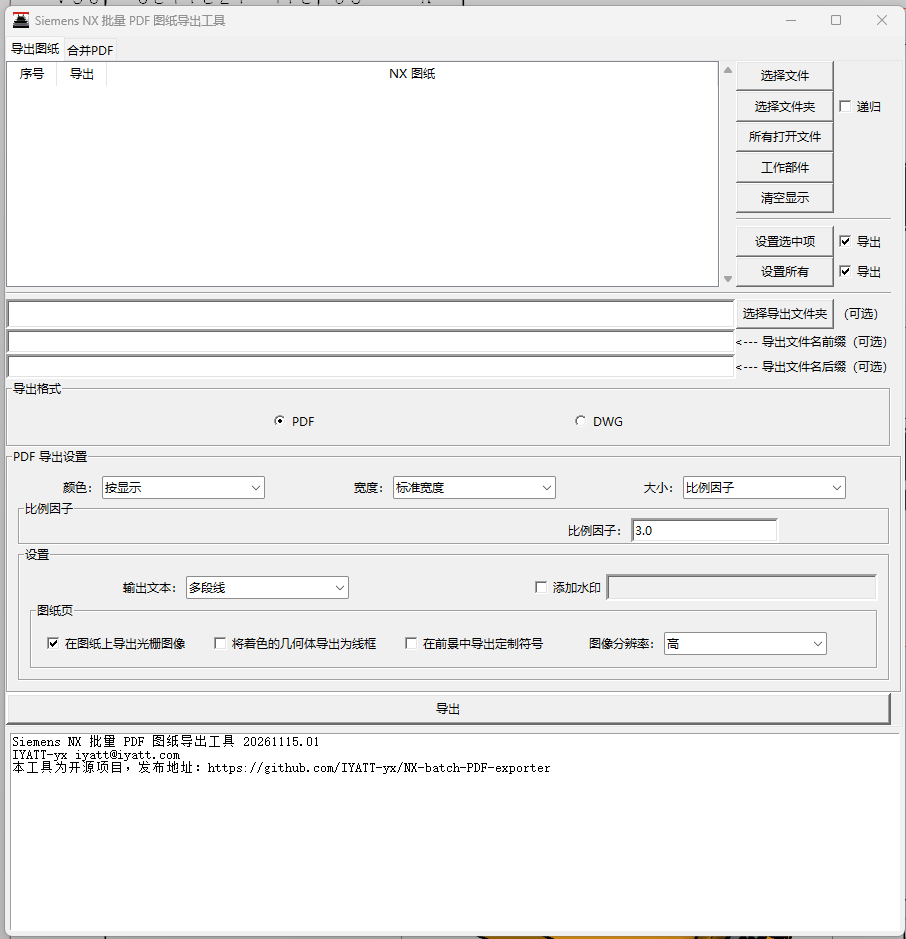
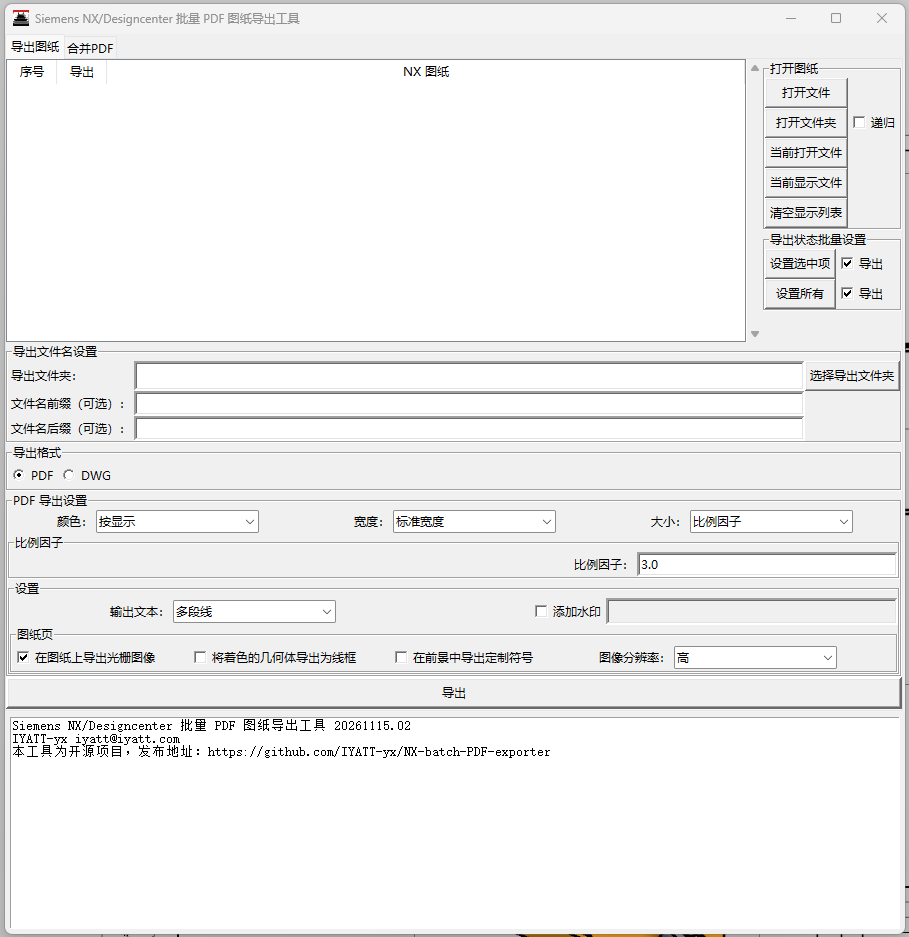
重建PDF导出页面

Changed region(s): [[0.0, 0.0, 1.0, 1.0], [0.7108, 0.9904, 0.8653, 1.0], [0.5254, 0.9904, 0.649, 1.0]]

diff --git a/application.py b/application.py
@@ -59,95 +59,110 @@ class Application(tk.Frame):
         self.msgText.pack(side=tk.BOTTOM, fill=tk.X, padx=5, pady=5)
         self._config_text_tags(self.msgText)
 
-    def createExportPdfTab(self, parent: tk.Frame):
-        """
-        创建导出 PDF 页面
+    def createPrtListPanel(self, parent: tk.Frame) -> tk.Frame:
+        '''创建图纸展示区'''
+        prtListFrame = tk.Frame(parent)
 
-        Args:
-            parent (tk.Frame): 父组件
-        """
-        parent.rowconfigure([0,1,2,3,4,5,6], weight=1)
-        parent.columnconfigure(0, weight=1)
+        totalRows = 8
+        self.prtListShow = ListShow(prtListFrame)
+        self.prtListShow.grid(row=0, column=0, rowspan=totalRows, sticky=tk.NSEW)
+        prtListFrame.rowconfigure(totalRows-1, weight=1)
+        prtListFrame.columnconfigure(0, weight=1)
 
-        self.prtListShow = ListShow(parent)
-        self.prtListShow.grid(row=0, column=0, rowspan=8, sticky=tk.NSEW)
+        # 操作区
+        operationFrame = tk.LabelFrame(prtListFrame, text=_('打开图纸'))
+        operationFrame.grid(row=0, column=1, rowspan=5, columnspan=2, sticky=tk.NSEW)
 
-        tk.Button(parent, text=_('选择文件'), command=self.onGetSelectedPrts).grid(row=0, column=1, sticky=tk.NSEW)
-        tk.Button(parent, text=_('选择文件夹'), command=self.onGetPrtsFromSelectedFolder).grid(row=1, column=1, sticky=tk.NSEW)
-        tk.Button(parent, text=_('所有打开文件'), command=self.onGetOpenedPrts).grid(row=2, column=1, sticky=tk.NSEW)
-        tk.Button(parent, text=_('工作部件'), command=self.onWorkPrt).grid(row=3, column=1, sticky=tk.NSEW)
-        tk.Button(parent, text=_('清空显示'), command=self.prtListShow.clear).grid(row=4, column=1, sticky=tk.NSEW)
-        ttk.Separator(parent, orient=tk.HORIZONTAL).grid(row=5, column=1, columnspan=2, sticky=tk.EW, pady=5)
+        tk.Button(operationFrame, text=_('打开文件'), command=self.onGetSelectedPrts).grid(row=0, column=0, sticky=tk.NSEW)
+        tk.Button(operationFrame, text=_('打开文件夹'), command=self.onGetPrtsFromSelectedFolder).grid(row=1, column=0, sticky=tk.NSEW)
+        tk.Button(operationFrame, text=_('当前打开文件'), command=self.onGetOpenedPrts).grid(row=2, column=0, sticky=tk.NSEW)
+        tk.Button(operationFrame, text=_('当前显示文件'), command=self.onWorkPrt).grid(row=3, column=0, sticky=tk.NSEW)
+        tk.Button(operationFrame, text=_('清空显示列表'), command=self.prtListShow.clear).grid(row=4, column=0, sticky=tk.NSEW)
 
-        tk.Button(parent, text=_('设置选中项'), command=self.onSetSelectedPrtStatus).grid(row=6, column=1, sticky=tk.NSEW)
-        tk.Button(parent, text=_('设置所有'), command=self.onSetAllPrtStatus).grid(row=7, column=1, sticky=tk.NSEW)
-        
         self.recursiveValue = tk.BooleanVar(parent, value=False)
-        tk.Checkbutton(parent, text=_('递归'), variable=self.recursiveValue).grid(row=1, column=2, sticky=tk.W)
+        tk.Checkbutton(operationFrame, text=_('递归'), variable=self.recursiveValue).grid(row=1, column=2, sticky=tk.W)
+
+        # 导出状态批量设置
+        statusFrame = tk.LabelFrame(prtListFrame, text=_('导出状态批量设置'))
+        statusFrame.grid(row=5, column=1, rowspan=2, columnspan=2, sticky=tk.NSEW)
+
+        tk.Button(statusFrame, text=_('设置选中项'), command=self.onSetSelectedPrtStatus).grid(row=0, column=0, sticky=tk.NSEW)
+        tk.Button(statusFrame, text=_('设置所有'), command=self.onSetAllPrtStatus).grid(row=1, column=0, sticky=tk.NSEW)
+
         self.selectedPrtStatusValue = tk.BooleanVar(parent, value=True)
-        tk.Checkbutton(parent, text=_('导出'), variable=self.selectedPrtStatusValue).grid(row=6, column=2, sticky=tk.W)
+        tk.Checkbutton(statusFrame, text=_('导出'), variable=self.selectedPrtStatusValue).grid(row=0, column=2, sticky=tk.W)
         self.allPrtStatusValue = tk.BooleanVar(parent, value=True)
-        tk.Checkbutton(parent, text=_('导出'), variable=self.allPrtStatusValue).grid(row=7, column=2, sticky=tk.W)
+        tk.Checkbutton(statusFrame, text=_('导出'), variable=self.allPrtStatusValue).grid(row=1, column=2, sticky=tk.W)
 
-        ttk.Separator(parent, orient=tk.HORIZONTAL).grid(row=8, column=0, columnspan=3, sticky=tk.EW, pady=5)
+        return prtListFrame
 
+    def createExportFilenameSettingPanel(self, parent: tk.Frame) -> tk.LabelFrame:
+        '''创建导出文件名设置区'''
+        exportFilenameSettingFrame = tk.LabelFrame(parent, text=_('导出文件名设置'))
+        exportFilenameSettingFrame.columnconfigure(1, weight=1)
+
+        tk.Label(exportFilenameSettingFrame, text=_('导出文件夹：')).grid(row=0, column=0, sticky=tk.W)
         self.exportFolderValue = tk.StringVar(parent, value='')
-        tk.Entry(parent, textvariable=self.exportFolderValue, bd=3).grid(row=9, column=0, sticky=tk.NSEW)
-        tk.Button(parent, text=_('选择导出文件夹'), command=self.onSelectExportFolder).grid(row=9, column=1, sticky=tk.NSEW)
-        tk.Label(parent, text=_('（可选）')).grid(row=9, column=2, sticky=tk.W)
+        tk.Entry(exportFilenameSettingFrame, textvariable=self.exportFolderValue, bd=3).grid(row=0, column=1, sticky=tk.NSEW)
+        tk.Button(exportFilenameSettingFrame, text=_('选择导出文件夹'), command=self.onSelectExportFolder).grid(row=0, column=2, sticky=tk.NSEW)
 
+        tk.Label(exportFilenameSettingFrame, text=_('文件名前缀（可选）：')).grid(row=1, column=0, sticky=tk.W)
         self.prefixNameValue = tk.StringVar(parent, value='')
-        tk.Entry(parent, textvariable=self.prefixNameValue,  bd=3).grid(row=10, column=0, sticky=tk.NSEW)
-        tk.Label(parent, text=_('<--- 导出文件名前缀（可选）')).grid(row=10, column=1, columnspan=2, sticky=tk.W)
+        tk.Entry(exportFilenameSettingFrame, textvariable=self.prefixNameValue,  bd=3).grid(row=1, column=1, sticky=tk.NSEW)
 
+        tk.Label(exportFilenameSettingFrame, text=_('文件名后缀（可选）：')).grid(row=2, column=0, sticky=tk.W)
         self.suffixNameValue = tk.StringVar(parent, value='')
-        tk.Entry(parent, textvariable=self.suffixNameValue, bd=3).grid(row=11, column=0, sticky=tk.NSEW)
-        tk.Label(parent, text=_('<--- 导出文件名后缀（可选）')).grid(row=11, column=1, columnspan=2, sticky=tk.W)
+        tk.Entry(exportFilenameSettingFrame, textvariable=self.suffixNameValue, bd=3).grid(row=2, column=1, sticky=tk.NSEW)
 
-        exportFormatBox = tk.LabelFrame(parent, text=_('导出格式'), padx=10, pady=10)
-        exportFormatBox.grid(row=12, column=0, columnspan=3, sticky=tk.NSEW)
-        for c in range(3):
-            exportFormatBox.columnconfigure(c, weight=1)
+        return exportFilenameSettingFrame
+
+    def createExportFormatPanel(self, parent: tk.Frame) -> tk.LabelFrame:
+        '''创建导出格式选择区'''
+        exportFormatFrame = tk.LabelFrame(parent, text=_('导出格式'))
+
         self.drawingClassValue = tk.IntVar(parent, self.DrawingClass.PDF.value)
-        tk.Radiobutton(exportFormatBox, text='PDF', variable=self.drawingClassValue, value=self.DrawingClass.PDF.value, command=self.onChangeDrawingClass).grid(row=0, column=1, sticky=tk.W)
-        tk.Radiobutton(exportFormatBox, text='DWG', variable=self.drawingClassValue, value=self.DrawingClass.DWG.value, command=self.onChangeDrawingClass).grid(row=0, column=2, sticky=tk.W)
+        tk.Radiobutton(exportFormatFrame, text='PDF', variable=self.drawingClassValue, value=self.DrawingClass.PDF.value, command=self.onChangeDrawingClass).grid(row=0, column=1, sticky=tk.W)
+        tk.Radiobutton(exportFormatFrame, text='DWG', variable=self.drawingClassValue, value=self.DrawingClass.DWG.value, command=self.onChangeDrawingClass).grid(row=0, column=2, sticky=tk.W)
 
-        # PDF 导出设置
-        self.pdfSettingBox = tk.LabelFrame(parent, text=_('PDF 导出设置'), padx=10, pady=10)
-        self.pdfSettingBox.grid(row=13, column=0, columnspan=6, sticky=tk.NSEW)
+        return exportFormatFrame
+
+    def createExportPdfSettingPanel(self, parent: tk.Frame) -> tk.LabelFrame:
+        '''创建导出 PDF 设置区'''
+        pdfSettingFrame = tk.LabelFrame(parent, text=_('PDF 导出设置'))
         for c in range(6):
-            self.pdfSettingBox.columnconfigure(c, weight=1)
+            pdfSettingFrame.columnconfigure(c, weight=1)
 
         # 打印属性 - 颜色
-        tk.Label(self.pdfSettingBox, text=_('颜色：')).grid(row=0, column=0, sticky=tk.E)
-        self.colorCombox = ttk.Combobox(self.pdfSettingBox, values=list(NxModules.Color.keys()), state='readonly')
+        tk.Label(pdfSettingFrame, text=_('颜色：')).grid(row=0, column=0, sticky=tk.E)
+        self.colorCombox = ttk.Combobox(pdfSettingFrame, values=list(NxModules.Color.keys()), state='readonly')
         self.colorCombox.grid(row=0, column=1, sticky=tk.W)
         self.colorCombox.set(list(NxModules.Color.keys())[0]) # 按显示
 
         # 打印属性 - 宽度
-        tk.Label(self.pdfSettingBox, text=_('宽度：')).grid(row=0, column=2, sticky=tk.E)
-        self.widthCombox = ttk.Combobox(self.pdfSettingBox, values=list(NxModules.Width.keys()), state='readonly')
+        tk.Label(pdfSettingFrame, text=_('宽度：')).grid(row=0, column=2, sticky=tk.E)
+        self.widthCombox = ttk.Combobox(pdfSettingFrame, values=list(NxModules.Width.keys()), state='readonly')
         self.widthCombox.grid(row=0, column=3, sticky=tk.W)
         self.widthCombox.set(list(NxModules.Width.keys())[0]) # 标准宽度
 
         # 打印属性 - 大小
-        tk.Label(self.pdfSettingBox, text=_('大小：')).grid(row=0, column=4, sticky=tk.E)
-        self.sizeOptionCombox = ttk.Combobox(self.pdfSettingBox, values=list(NxModules.SizeOption.keys()), state='readonly')
+        tk.Label(pdfSettingFrame, text=_('大小：')).grid(row=0, column=4, sticky=tk.E)
+        self.sizeOptionCombox = ttk.Combobox(pdfSettingFrame, values=list(NxModules.SizeOption.keys()), state='readonly')
         self.sizeOptionCombox.grid(row=0, column=5, sticky=tk.W)
-        self.sizeOptionCombox.bind("<<ComboboxSelected>>", self.onChangeSizeOption)
         self.sizeOptionCombox.set(list(NxModules.SizeOption.keys())[1]) # 比例因子
+        self.sizeOptionCombox.bind("<<ComboboxSelected>>", self.onChangeSizeOption)
 
         # 打印属性 - 比例因子
-        self.scaleFactorFrame = tk.LabelFrame(self.pdfSettingBox, text=_('比例因子'))
+        self.scaleFactorFrame = tk.LabelFrame(pdfSettingFrame, text=_('比例因子'))
         self.scaleFactorFrame.grid(row=1, column=0, columnspan=6, sticky=tk.NSEW)
         for c in range(6):
             self.scaleFactorFrame.columnconfigure(c, weight=1)
+
         tk.Label(self.scaleFactorFrame, text=_('比例因子：')).grid(row=0, column=4, sticky=tk.E)
         self.scaleFactorValue = tk.DoubleVar(parent, value='3.0')
-        tk.Entry(self.scaleFactorFrame, textvariable=self.scaleFactorValue, bd=3).grid(row=0, column=5, sticky=tk.W)
+        tk.Entry(self.scaleFactorFrame, textvariable=self.scaleFactorValue, bd=3).grid(row=0, column=5, sticky=tk.NSEW)
 
         # 打印属性 - 尺寸
-        self.dimensionFrame = tk.LabelFrame(self.pdfSettingBox, text=_('尺寸'))
+        self.dimensionFrame = tk.LabelFrame(pdfSettingFrame, text=_('尺寸'))
         self.dimensionFrame.grid(row=2, column=0, columnspan=6, sticky=tk.NSEW)
         for c in range(6):
             self.dimensionFrame.columnconfigure(c, weight=1)
@@ -167,47 +182,67 @@ class Application(tk.Frame):
         tk.Entry(self.dimensionFrame, textvariable=self.dimensionYValue, bd=3).grid(row=0, column=5, sticky=tk.W)
 
         # 设置
-        self.settingBox = tk.LabelFrame(self.pdfSettingBox, text=_('设置'), padx=10, pady=10)
-        self.settingBox.grid(row=3, column=0, columnspan=6, sticky=tk.NSEW)
+        self.settingFrame = tk.LabelFrame(pdfSettingFrame, text=_('设置'))
+        self.settingFrame.grid(row=3, column=0, columnspan=6, sticky=tk.NSEW)
         for c in range(6):
-            self.settingBox.columnconfigure(c, weight=1)
+            self.settingFrame.columnconfigure(c, weight=1)
 
-        tk.Label(self.settingBox, text=_('输出文本：')).grid(row=0, column=0, sticky=tk.E)
-        self.outputTextOptionCombox = ttk.Combobox(self.settingBox, values=list(NxModules.OutputTextOption.keys()), state='readonly')
+        tk.Label(self.settingFrame, text=_('输出文本：')).grid(row=0, column=0, sticky=tk.E)
+        self.outputTextOptionCombox = ttk.Combobox(self.settingFrame, values=list(NxModules.OutputTextOption.keys()), state='readonly')
         self.outputTextOptionCombox.grid(row=0, column=1, sticky=tk.W)
         self.outputTextOptionCombox.set(list(NxModules.OutputTextOption.keys())[1]) # 多段线
 
         self.addWatermarkBoolValue = tk.BooleanVar(parent, value=False)
-        tk.Checkbutton(self.settingBox, text=_('添加水印'), variable=self.addWatermarkBoolValue, command=self.onChangeAddWatermark).grid(row=0, column=2, sticky=tk.E)
+        tk.Checkbutton(self.settingFrame, text=_('添加水印'), variable=self.addWatermarkBoolValue, command=self.onChangeAddWatermark).grid(row=0, column=2, sticky=tk.E)
         self.watermarkTextValue = tk.StringVar(parent, value='')
-        self.watermarkEntry = tk.Entry(self.settingBox, textvariable=self.watermarkTextValue, bd=3)
+        self.watermarkEntry = tk.Entry(self.settingFrame, textvariable=self.watermarkTextValue, bd=3)
         self.watermarkEntry.grid(row=0, column=3, columnspan=3, sticky=tk.NSEW)
 
         # 设置 - 图纸页
-        self.paperSettingBox = tk.LabelFrame(self.settingBox, text=_('图纸页'), padx=10, pady=10)
-        self.paperSettingBox.grid(row=1, column=0, columnspan=6, sticky=tk.NSEW)
+        self.paperSettingFrame = tk.LabelFrame(self.settingFrame, text=_('图纸页'))
+        self.paperSettingFrame.grid(row=1, column=0, columnspan=6, sticky=tk.NSEW)
         for c in range(6):
-            self.paperSettingBox.columnconfigure(c, weight=1)
+            self.paperSettingFrame.columnconfigure(c, weight=1)
 
         self.rasterImagesBoolValue = tk.BooleanVar(parent, value=True)
-        tk.Checkbutton(self.paperSettingBox, text=_('在图纸上导出光栅图像'), variable=self.rasterImagesBoolValue, command=self.onChangeRaster).grid(row=0, column=0, sticky=tk.W)
+        tk.Checkbutton(self.paperSettingFrame, text=_('在图纸上导出光栅图像'), variable=self.rasterImagesBoolValue, command=self.onChangeRaster).grid(row=0, column=0, sticky=tk.W)
 
         self.shadedGeometryBoolValue = tk.BooleanVar(parent, value=False)
-        self.shadedGeometryCheckBtn = tk.Checkbutton(self.paperSettingBox, text=_('将着色的几何体导出为线框'), variable=self.shadedGeometryBoolValue)
+        self.shadedGeometryCheckBtn = tk.Checkbutton(self.paperSettingFrame, text=_('将着色的几何体导出为线框'), variable=self.shadedGeometryBoolValue)
         self.shadedGeometryCheckBtn.grid(row=0, column=1, sticky=tk.W)
 
         self.customSymbolsInForegroundBoolValue = tk.BooleanVar(parent, value=False)
-        tk.Checkbutton(self.paperSettingBox, text=_('在前景中导出定制符号'), variable=self.customSymbolsInForegroundBoolValue).grid(row=0, column=2, sticky=tk.W)
+        tk.Checkbutton(self.paperSettingFrame, text=_('在前景中导出定制符号'), variable=self.customSymbolsInForegroundBoolValue).grid(row=0, column=2, sticky=tk.W)
 
-        tk.Label(self.paperSettingBox, text=_('图像分辨率：')).grid(row=0, column=3, sticky=tk.E)
-        self.imageResolutionCombox = ttk.Combobox(self.paperSettingBox, values=list(NxModules.ImageResolution.keys()), state='readonly')
+        tk.Label(self.paperSettingFrame, text=_('图像分辨率：')).grid(row=0, column=3, sticky=tk.E)
+        self.imageResolutionCombox = ttk.Combobox(self.paperSettingFrame, values=list(NxModules.ImageResolution.keys()), state='readonly')
         self.imageResolutionCombox.grid(row=0, column=4, sticky=tk.W)
         self.imageResolutionCombox.set(list(NxModules.ImageResolution.keys())[0]) # 高
 
-        self.exportButton = tk.Button(parent, text=_('导出'), command=self.onExport, bd=3)
-        self.exportButton.grid(row=14, column=0, columnspan=3, sticky=tk.NSEW)
+        return pdfSettingFrame
 
-        # 初始化选项状态
+
+    def createExportPdfTab(self, parent: tk.Frame):
+        """
+        创建导出 PDF 页面
+
+        Args:
+            parent (tk.Frame): 父组件
+        """
+        prtListFrame = self.createPrtListPanel(parent)
+        prtListFrame.pack(side=tk.TOP, fill=tk.BOTH, expand=True)
+
+        exportFilenameSettingFrame = self.createExportFilenameSettingPanel(parent)
+        exportFormatFrame = self.createExportFormatPanel(parent)
+        self.pdfSettingFrame = self.createExportPdfSettingPanel(parent)
+
+        frameList = [exportFilenameSettingFrame, exportFormatFrame, self.pdfSettingFrame]
+        for frame in frameList:
+            frame.pack(side=tk.TOP, fill=tk.X)
+
+        self.exportButton = tk.Button(parent, text=_('导出'), command=self.onExport, bd=3)
+        self.exportButton.pack(side=tk.BOTTOM, fill=tk.BOTH)
+
         self.onChangeSizeOption()
         self.onChangeAddWatermark()
 
@@ -229,9 +264,9 @@ class Application(tk.Frame):
     def onChangeDrawingClass(self):
         """切换导出格式"""
         if self.drawingClassValue.get() == self.DrawingClass.PDF.value:
-            self.pdfSettingBox.grid()
+            self.pdfSettingFrame.pack(side=tk.TOP, fill=tk.X)
         else:
-            self.pdfSettingBox.grid_remove()
+            self.pdfSettingFrame.pack_forget()
 
     def onChangeSizeOption(self, event=None):
         """切换尺寸选项"""

diff --git a/version.py b/version.py
@@ -1,1 +1,1 @@
-V = '20261115.01'
+V = '20261115.02'
